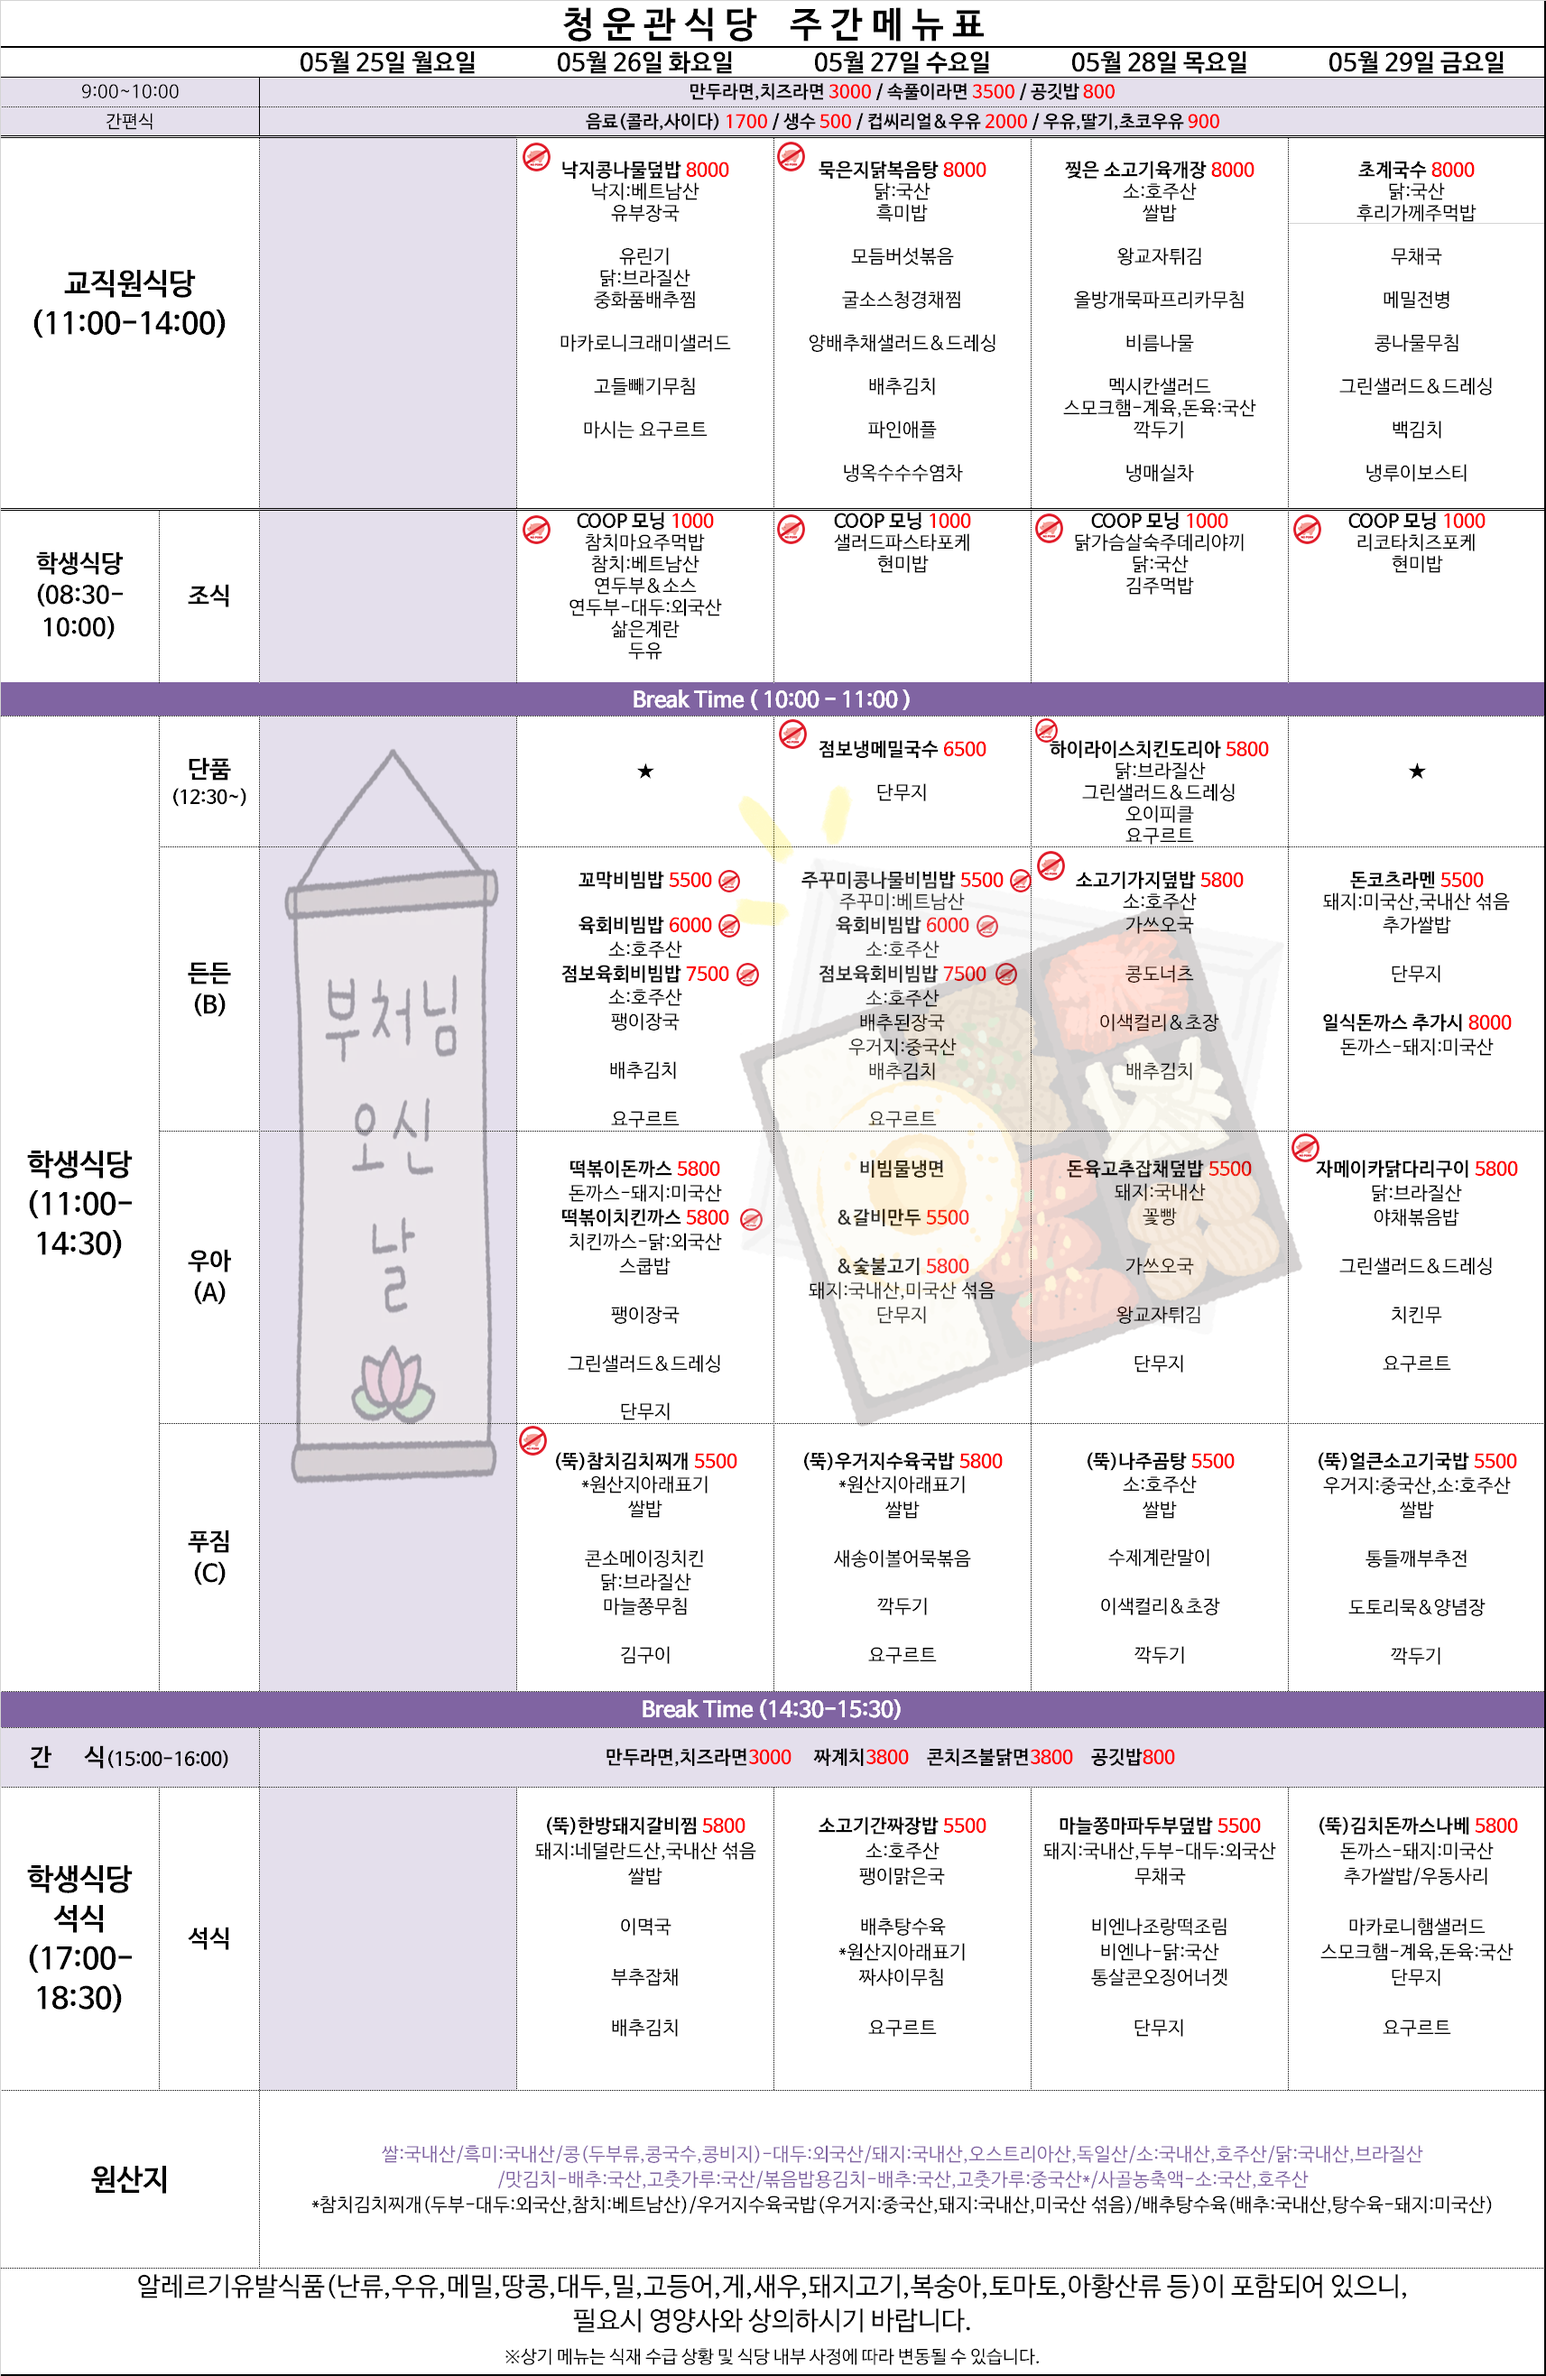
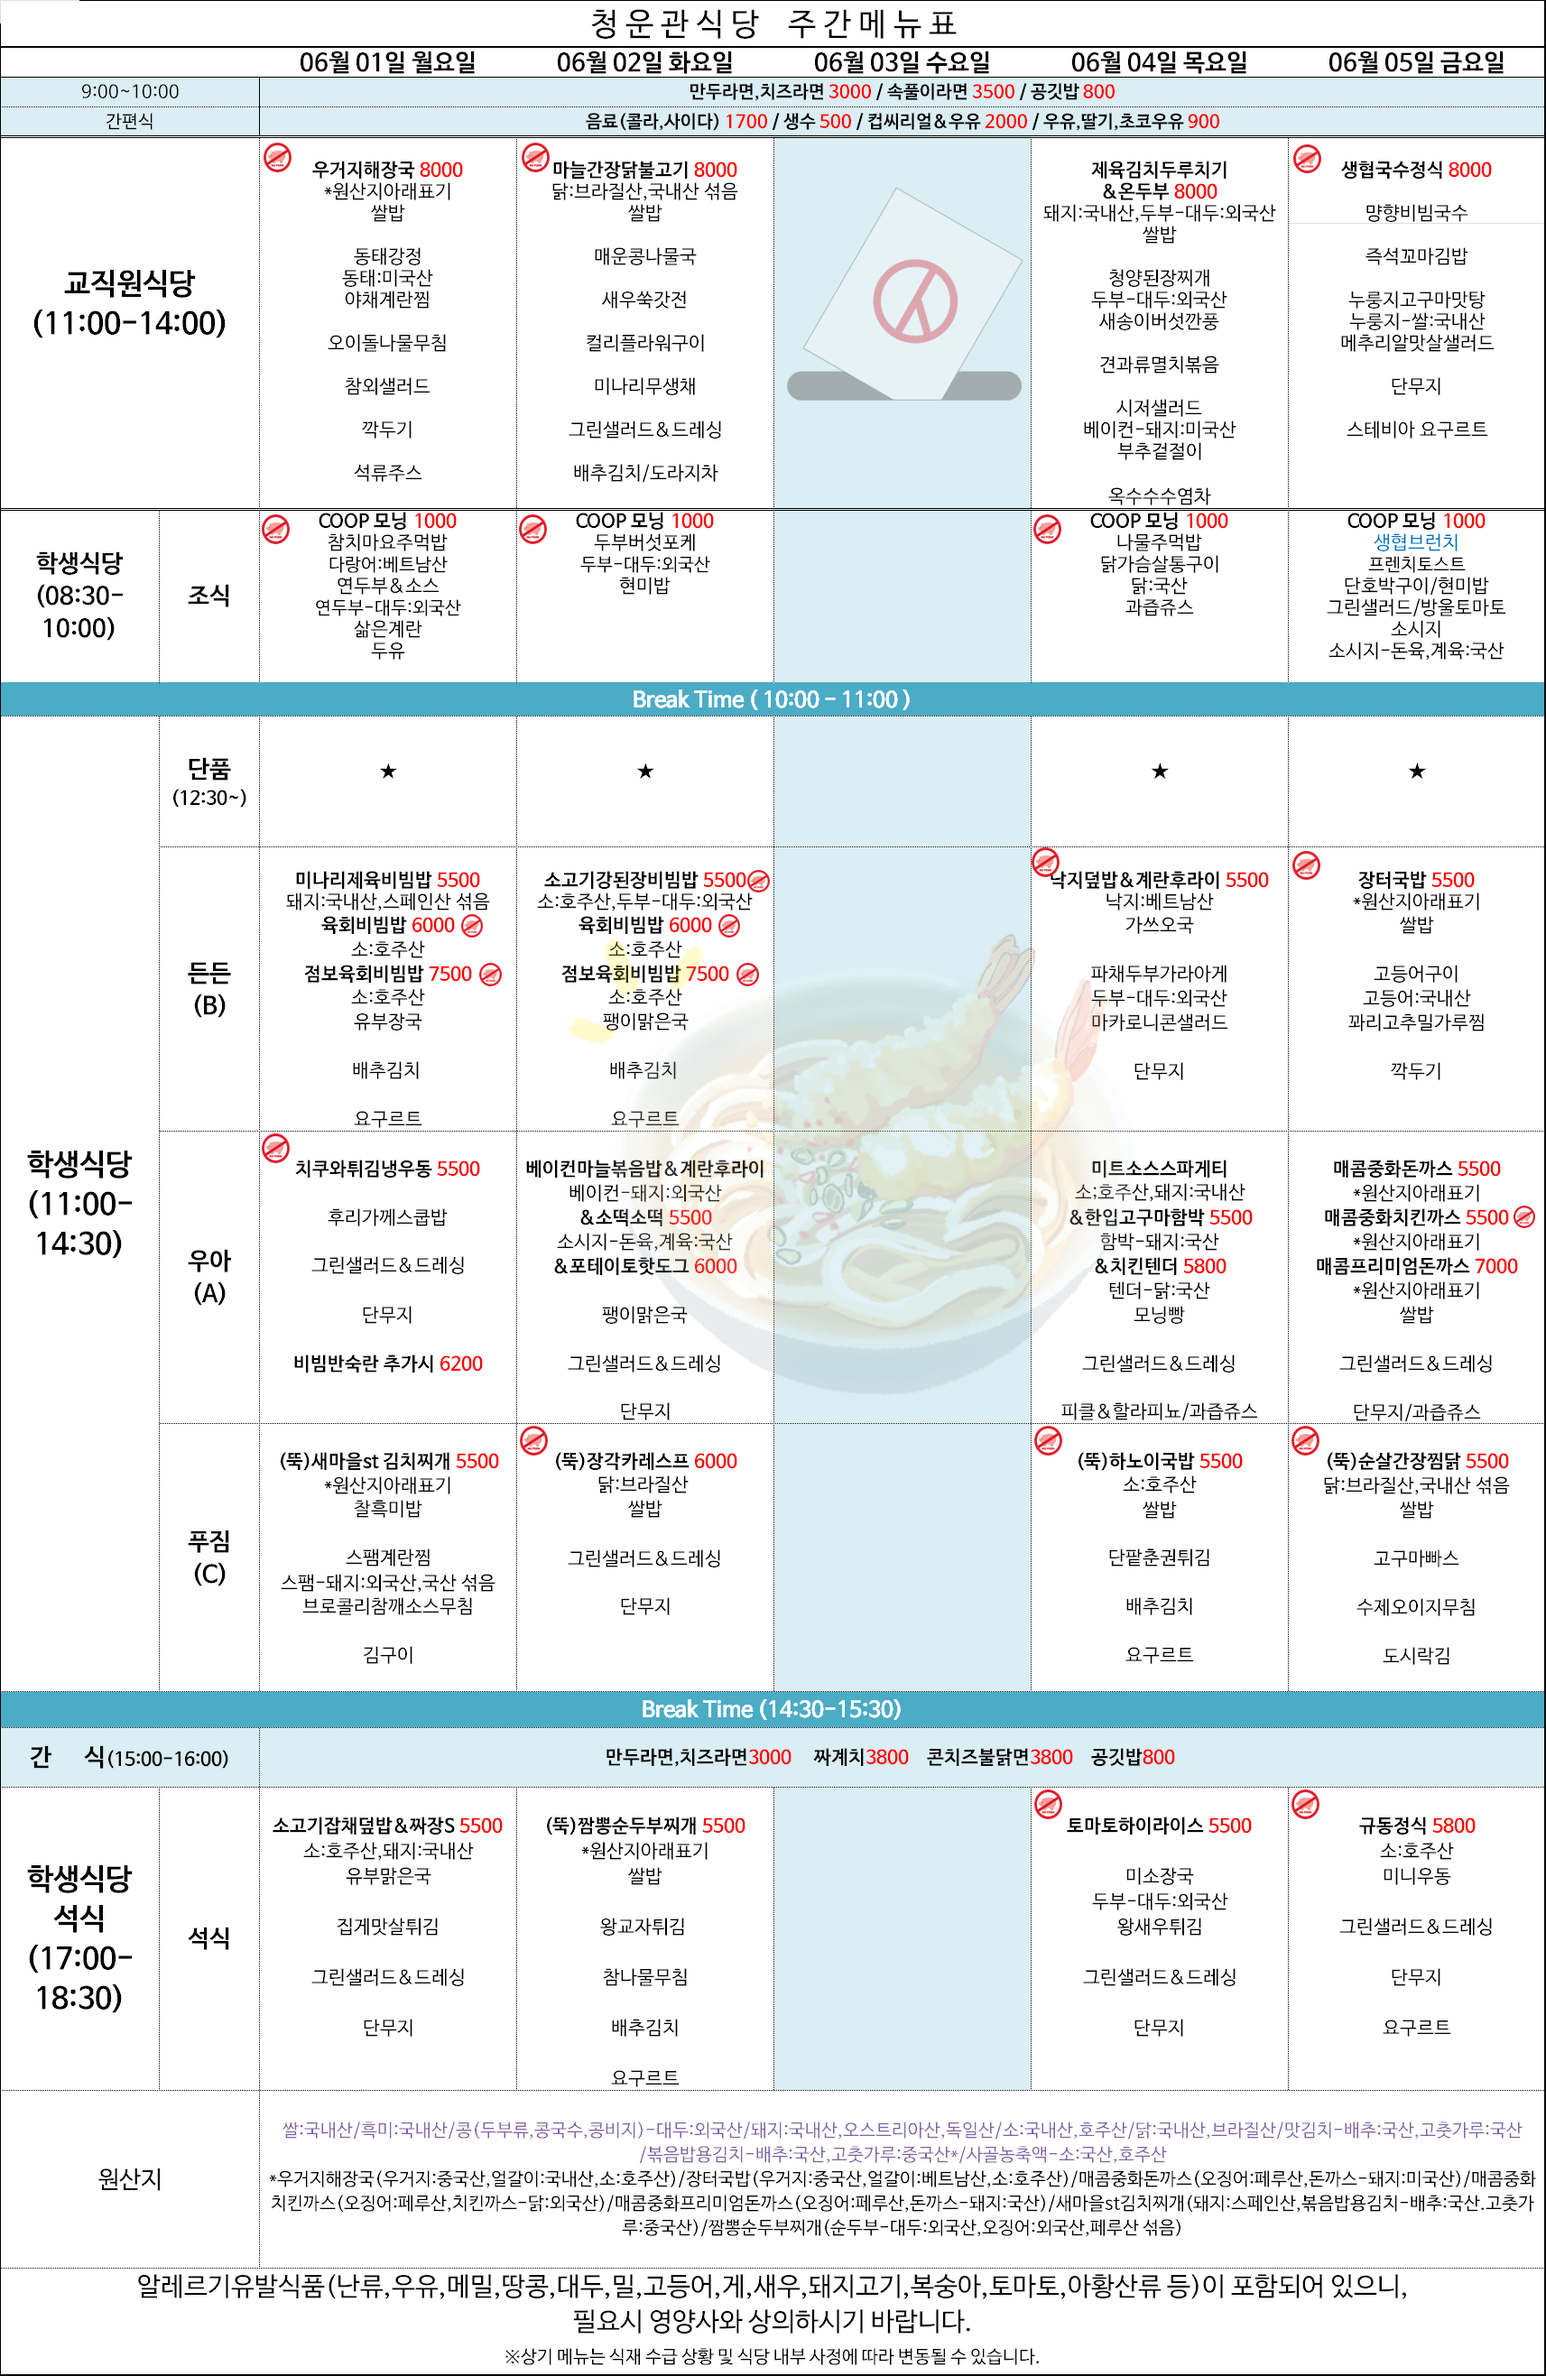
cern

diff --git a/restaurants/management/commands/playwright.py b/restaurants/management/commands/playwright.py
@@ -441,19 +441,23 @@ class Command(BaseCommand):
             # Normalise to list whether Gemini returns a single dict or a list
             collection = parsed if isinstance(parsed, list) else [parsed]
             
-            for index, menu in enumerate(collection):
-                MenuItem.objects.create(
-                    main=menu.get('main', ''),
-                    side=menu.get('side', ''),
-                    price=menu.get('price', 0),
-                    time=menu.get('time', ''),
-                    day=menu.get('day', ''),
-                    place=menu.get('place', ''),
-                    extra_menu=menu.get('extra_menu', ''),
-                    extra_price=menu.get('extra_price', 0),
-                    non_pork=menu.get('non_pork', False),
-                    storage_url=menu.get('storage_url', ''),
-                )
-                self.stdout.write(self.style.SUCCESS(f"Successfully posted item: {menu.get('main', 'Unknown Menu Item')}"))
+            def _save_items(items):
+                for menu in items:
+                    MenuItem.objects.create(
+                        main=menu.get('main', ''),
+                        side=menu.get('side', ''),
+                        price=menu.get('price', 0),
+                        time=menu.get('time', ''),
+                        day=menu.get('day', ''),
+                        place=menu.get('place', ''),
+                        extra_menu=menu.get('extra_menu', ''),
+                        extra_price=menu.get('extra_price', 0),
+                        non_pork=menu.get('non_pork', False),
+                        storage_url=menu.get('storage_url', ''),
+                    )
+                    self.stdout.write(self.style.SUCCESS(f"Successfully posted item: {menu.get('main', 'Unknown Menu Item')}"))
+
+            with ThreadPoolExecutor(max_workers=1) as executor:
+                executor.submit(_save_items, collection).result()
         except Exception as err:
             self.stderr.write(self.style.ERROR(f'Error: {err}'))
